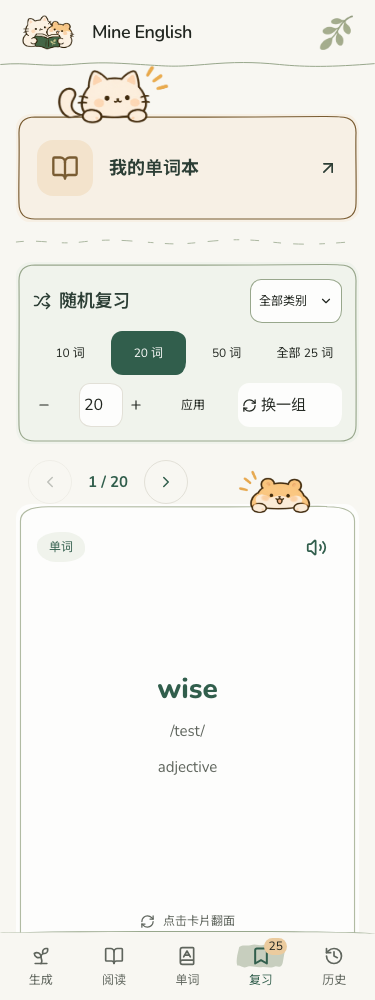
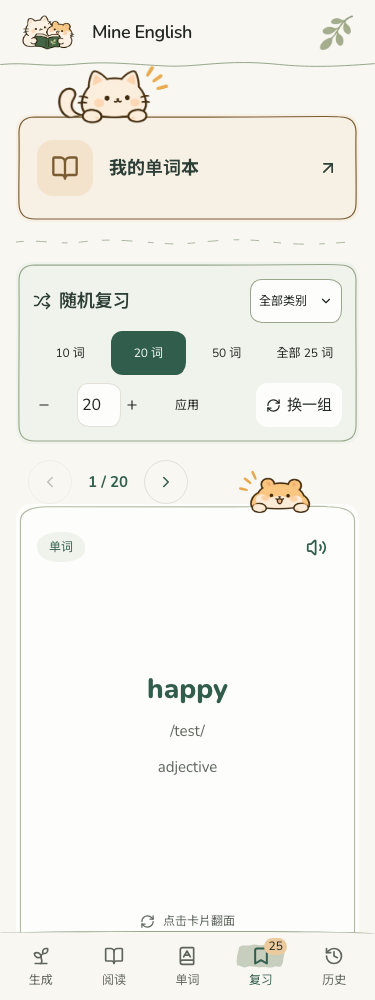
Tighten custom count controls and fit reshuffle to its content

diff --git a/src/handDrawn.css b/src/handDrawn.css
@@ -278,10 +278,10 @@
   #root .random-review__category > button { min-height:44px; padding:8px; white-space:nowrap; }
   #root .random-review__presets { grid-column:1 / -1; display:grid; grid-template-columns:repeat(4,minmax(0,1fr)); gap:4px; }
   #root .random-review__presets > button { min-width:0; padding:8px 4px; }
-  #root .random-review__custom { grid-column:1; display:grid; grid-template-columns:repeat(4,44px); gap:2px; flex-basis:auto; }
+  #root .random-review__custom { grid-column:1; display:grid; grid-template-columns:repeat(4,44px); gap:0; flex-basis:auto; }
   #root .random-review__custom > span { display:none; }
   #root .random-review__custom :is(button,input) { box-sizing:border-box; width:44px; min-width:44px; min-height:44px; padding:4px; }
-  #root .random-review__reshuffle { grid-column:2; min-width:64px; min-height:44px; padding:4px; gap:4px; margin:0; white-space:nowrap; }
+  #root .random-review__reshuffle { grid-column:2; justify-self:end; justify-content:center; width:max-content; min-width:44px; min-height:44px; padding:8px 10px; gap:6px; margin:0; white-space:nowrap; }
   #root .practice-module-divider { margin-block:16px; }
   #root .review-pagination { justify-content:flex-start; }
   #root .review-pagination .review-progress > div { gap:12px; }

diff --git a/DESIGN.md b/DESIGN.md
@@ -301,7 +301,7 @@ The history vocabulary-task heading sits outside the outline, matching the histo
 
 ### Compact review and detail states (2026-11-10)
 
-Below 640px, random review filtering uses three compact rows: heading/category; four quantity presets; custom quantity/reshuffle. Pagination is a separate centered row outside the filter outline, between filtering and the flashcard. Keep original type and palette. Every button/input retains a 44px touch height; hide only the redundant standalone “词” unit on phones. Below 360px, place reshuffle on a separate row when 44px controls cannot fit; never wrap its label or reduce fonts. Desktop/tablet review controls retain their layout. Remove the review-mode explanatory sentence and wordbook-entry description.
+Below 640px, random review filtering uses three compact rows: heading/category; four quantity presets; custom quantity/reshuffle. The four custom-count controls use adjacent 44px columns without extra gaps, bringing “应用” left while preserving hit areas. Pagination is a separate centered row outside the filter outline, between filtering and the flashcard. Keep original type and palette. Every button/input retains a 44px touch height; hide only the redundant standalone “词” unit on phones. Below 360px, place reshuffle on a separate row when 44px controls cannot fit; never wrap its label or reduce fonts. Reshuffle hugs its icon and label with balanced 10px horizontal padding, centered content and end alignment, rather than stretching to the grid column. Desktop/tablet review controls retain their layout. Remove the review-mode explanatory sentence and wordbook-entry description.
 
 All compact learning empty states stack the official hamster above centered copy. Do not replace the supplied image, add knowledge or change failure/not-applicable distinctions. Preview-save advice uses `--type-meta` in italic. Inflections have a stable presentation order: noun plural/singular, verb singular, past, past participle, present participle/gerund, comparative/superlative, base/infinitive; custom labels follow, in their saved order. Sort a copy, never stored user data.
 

diff --git a/docs/review-module-layout-report.md b/docs/review-module-layout-report.md
@@ -5,7 +5,7 @@
 - 翻页控件移出筛选框，放在筛选框与单词卡片之间。
 - 仓鼠保持原尺寸（桌面/平板 208px、手机 160px），继续粘在卡片上沿，正反面均保留；整张卡片上移，使仓鼠大致与翻页控件同排。
 - 手机翻页控件靠左避让，360–639px 再右移 12px；小平板适度偏左。按钮和仓鼠可见像素没有重叠。
-- 手机数量控件收紧排列，为「换一组」预留单行宽度。320px 极窄屏空间不足时，按钮独立一排，保持原字号及 44px 触控尺寸。
+- 手机数量控件收紧排列，为「换一组」预留单行宽度；数量组取消额外列间隙，将「应用」左移；换一组按内容收紧宽度并居中图标与文字。320px 极窄屏空间不足时，按钮独立一排，保持原字号及 44px 触控尺寸。
 
 修改：`LearningArt.tsx`（可复用虚线）、`PracticeHubView.tsx`（模块分隔）、`ReviewView.tsx`（外置翻页）、`handDrawn.css`、`DESIGN.md`。另修正 `vocabularyDetails.ts` 排序工具的返回类型推断，不改变排序行为或数据。
 
